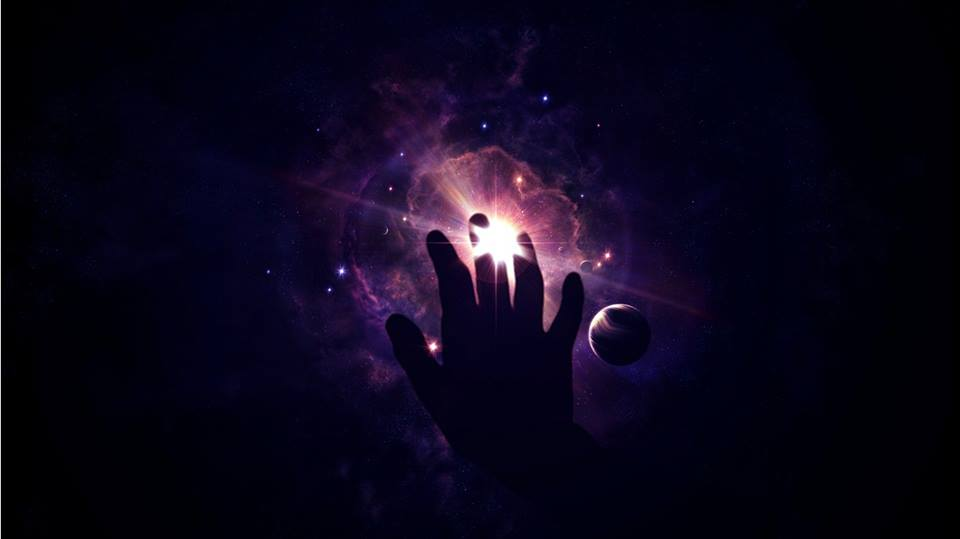
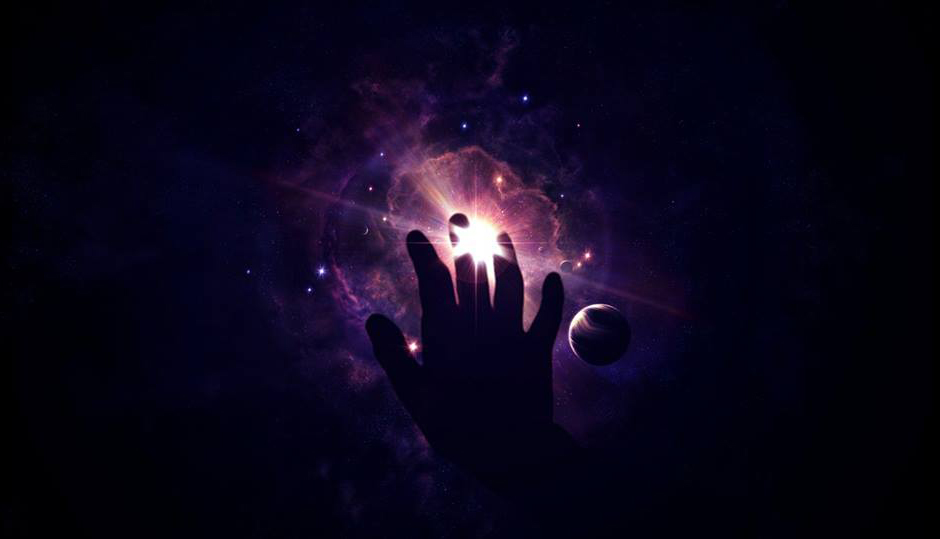
added text and background image

diff --git a/style/index.css b/style/index.css
@@ -21,8 +21,9 @@ font: inherit; vertical-align: baseline;
 /* Add CSS styling here */
 
 body{
-    background-color:#14134d;
+    background-color:#01011a;
 }
+
 
 .title{
     text-align:center;
@@ -30,18 +31,28 @@ body{
     background:#ddc7f0;
 }
 
-p{
+h2{
     color:white;
+    font-size:1.5rem;
+    margin:20px;
 }
 .intro{
     display:flex;
     justify-content:space-between; 
 }
 
+nav{
+    margin:20px;
+}
 
 nav a{
     text-decoration:none;
     border-radius:15%;
+}
+
+nav a:hover{
+    background:#31023b;
+    color:white;
 }
 
 .box1 {
@@ -64,21 +75,47 @@ nav a{
     background-color:#ddc7f0;
 }
 
+header{
+    margin:20px 20px 100px 20px;
+}
+
+/* .spacecake{
+    text-align:center;
+} */
+
 .spacecake{
+    background-image:url("/images/cosmictouch.jpg")
+    /* width:1rem;
+    height:1rem;
+     background-size:cover;
+    background-repeat:no-repeat;  */
+} 
+
+h1{
+    color:white;
+    font-size:3rem;
+    text-align:center;
+}
+
+h3{
+    color:white;
+    font-size:2rem;
     text-align:center;
 }
 
 .spacecake img{
-    width:60rem;
-    height:30rem;
-    margin-top:20px;
+    /* width:10rem;
+    height:10rem; */
+    margin:20px 20px 100px 20px;
 }
+
 .gallery{
     width:100%;
     display:flex;
     flex-wrap:wrap;
     justify-content:center;
     align-items:center; 
+    margin-bottom:40px;
 }
 
 .gallery img{
@@ -87,6 +124,58 @@ nav a{
     margin:10px;
 }
 
+.cosmos{
+    color:white;
+    text-align:center;
+}
+
+.nebulae{
+    color:white;
+    text-align:center;
+}
+
+.stardust{
+    color:white;
+    text-align:center;
+}
+
+.singularity{
+    color:white;
+    text-align:center;
+}
+
+.wormhole{
+    color:white;
+    text-align:center;
+}
+
+.eventhorizon{
+    color:white;
+    text-align:center;
+}
+
 .button{
     text-align:center;
+}
+
+button{
+    background-color:#ddc7f0;
+    margin-top:20px;
+    margin-bottom:20px;
+}
+
+button:hover{
+    background:#31023b;
+}
+
+.button a{
+    text-decoration:none;
+}
+
+.button a:hover{
+    color:white;
+}
+
+footer{
+    background-color:#5c0341;
 }

diff --git a/index.html b/index.html
@@ -11,7 +11,7 @@
    <section class="title">Raven's Starry Night</section> 
     <header>
         <div class="intro">
-            <p>Nicole Kenney</p>
+            <h2>Nicole Kenney</h2>
             <nav>
                 <a class="box1" href="#home">Home</a>
                 <a class="box2" href="#about">About</a>
@@ -20,17 +20,41 @@
             </nav>
         </div>
         <div class="spacecake">
-            <img src="/images/cosmictouch.jpg" alt="hand touching space">
+            <h1>Stellar Designs</h1>
+            <h3> Welcome</h3>
         </div>
     </header>
 
     <section class="gallery">
+        <div class="img1">
         <img src="/images/mindblown.PNG" alt="woman with moon for head">
+        <p class="cosmos">cosmos</p>
+        </div>
+
+        <div class="img2">
         <img src="/images/swimmers.jpg" alt="divers jumping into space">
+        <p class="nebulae">nebulae</p>
+        </div>
+
+        <div class="img3">
         <img src="/images/she.jpg" alt="woman made of stardust">
+        <p class="stardust">stardust</p>
+        </div>
+
+        <div class="img4">
         <img src="/images/scarletk.jpg" alt="woman in cosmos">
+        <p class="singularity">singularity</p>
+        </div>
+
+        <div class="img5">
         <img src="/images/spacekitty.jpg" alt="cat in space">
+        <p class="wormhole">wormhole</p>
+        </div>
+
+        <div class="img6">
         <img src="/images/levitation.jpg" alt="woman levitating in space">
+        <p class="eventhorizon">event horizon</p>
+        </div>
     </section>
 
     <footer>
